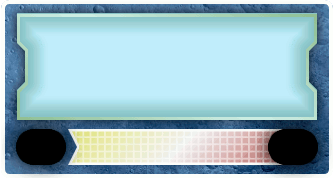
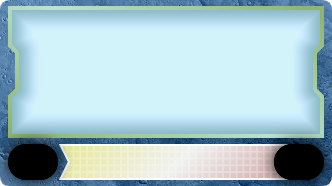
Turmoil Css updates (#6229)
* Modified secondary tags and added new requirements

Secondary Tags were not centered with the edge of the resource, but that is now fixed. Card resources can now had the class "card-resource--has-secondary-tag" to give them a wider right-side margin. Also added new requirements used in Chemical's expansion

diff --git a/src/client/components/card/CardRenderItemComponent.vue b/src/client/components/card/CardRenderItemComponent.vue
@@ -296,40 +296,7 @@ export default Vue.extend({
         classes.push(this.cardResource, 'card-resource-nomads');
         break;
       case CardRenderItemType.HYDROELECTRIC_RESOURCE:
-        classes.push(this.cardResource, 'card-resource-hydroelectric-resource');
-        break;
-      case CardRenderItemType.IDENTIFY:
-        classes.push('card-identification');
-        break;
-      case CardRenderItemType.EXCAVATE:
-        classes.push('card-excavation');
-        break;
-      case CardRenderItemType.CORRUPTION:
-        classes.push('card-resource', 'card-resource-corruption');
-        break;
-      case CardRenderItemType.TOOL:
-        classes.push('card-resource', 'card-resource-tool');
-        break;
-      case CardRenderItemType.WARE:
-        classes.push('card-resource', 'card-resource-ware');
-        break;
-      case CardRenderItemType.SCOOP:
-        classes.push('card-resource', 'card-resource-scoop');
-        break;
-      case CardRenderItemType.JOURNALISM:
-        classes.push('card-resource', 'card-resource-journalism');
-        break;
-      case CardRenderItemType.ACTIVIST:
-        classes.push('card-resource', 'card-resource-activist');
-        break;
-      case CardRenderItemType.NEUTRAL_DELEGATE:
-        classes.push('card-neutral-delegate');
-        break;
-      case CardRenderItemType.UNDERGROUND_RESOURCES:
-        classes.push('card-underground-resources');
-        break;
-      case CardRenderItemType.CORRUPTION_SHIELD:
-        classes.push('card-corruption-shield');
+        classes.push('card-resource', 'card-resource-hydroelectric-resource');
         break;
       }
 

diff --git a/src/styles/turmoil.less b/src/styles/turmoil.less
@@ -89,22 +89,25 @@
 .global-event {
     display: inline-block;
     vertical-align: top;
-    width: 330px;
-    height: 170px;
-    margin: 0 2px;
+    width: 332px;
+    height: 186px;
+    margin: 0 1px;
     background: url(./assets/parties/global_event.png);
-    background-position: -11px -187px;
-    background-size: 350px 182px;
     color: #000000;
     font-size: medium;
     border-radius: 5px;
+    margin-bottom: 10px;
 }
 
 .global-event-card-content {
-    width: 275px !important;
-    height: 100px !important;
+    width: 300px !important;
+    height: 118px !important;
     justify-content: center;
     margin: 0 auto;
+    top: 3px;
+    overflow-x: hidden;
+    justify-content: start;
+    scale: 0.9;
 }
 
 .global-event-title {
@@ -113,16 +116,20 @@
     width: 200px;
     margin-top: 135px;
     margin-left: 70px;
-    text-wrap: nowrap;
-    overflow: hidden;
     font-weight: 600;
     text-align: center;
+    height: 32px;
+    top: 11px;
 }
 
-.global-event-name--narrow {
-  letter-spacing: -0.05em;
-  font-size: 14px;
-  margin-left: 10px;
+.global-event-name {
+    margin: 0;
+    position: absolute;
+    top: 50%;
+    left: 50%;
+    transform: translate(-50%, -50%);
+    width: 200px;
+    line-height: 15px;
 }
 
 .event-title {

diff --git a/src/styles/cards_v2.less b/src/styles/cards_v2.less
@@ -2440,16 +2440,18 @@
 
 .card-party {
   display: flex;
+}
+
+.card-party--revealed {
+  margin: 147px 0 0 12px;
   position: absolute;
   transform: scale(1.35);
 }
 
-.card-party--revealed {
-  margin: 130px 0 0 12px;
-}
-
 .card-party--current {
-  margin: 130px 0 0 276px;
+  margin: 147px 0 0 279px;
+  position: absolute;
+  transform: scale(1.35);
 }
 
 @parties: greens, kelvinists, mars-first, reds, scientists, unity;

diff --git a/src/client/components/turmoil/GlobalEvent.vue b/src/client/components/turmoil/GlobalEvent.vue
@@ -4,7 +4,7 @@
       <div class="card-content-wrapper" v-i18n>
         <CardParty class="card-party--revealed" :party="revealed" />
         <CardParty class="card-party--current" :party="current" />
-        <div class="global-event-title"><span :class="eventNameStyle">{{globalEventName}}</span></div>
+        <div class="global-event-title"><span class="global-event-name">{{globalEventName}}</span></div>
         <div class="card-content global-event-card-content">
           <CardRenderData v-if="renderData !== undefined" :renderData="renderData" />
           <CardDescription :item='description' />
@@ -85,14 +85,6 @@ export default Vue.extend({
       default:
         return common;
       }
-    },
-  },
-  computed: {
-    eventNameStyle(): string {
-      if (this.globalEventName.length > 24) {
-        return 'global-event-name--narrow';
-      }
-      return '';
     },
   },
 });

diff --git a/src/server/turmoil/globalEvents/Revolution.ts b/src/server/turmoil/globalEvents/Revolution.ts
@@ -11,9 +11,9 @@ import {played} from '../../cards/Options';
 import {Size} from '../../../common/cards/render/Size';
 
 const RENDER_DATA = CardRenderer.builder((b) => {
-  b.earth(1, {played, size: Size.SMALL}).plus().influence({size: Size.SMALL}).colon();
-  b.text('1st:', Size.SMALL).tr(2, {size: Size.TINY, digit: true});
-  b.text('2nd:', Size.SMALL).tr(1, {size: Size.TINY, digit: true});
+  b.earth(1, {played, size: Size.SMALL}).plus().influence().colon().br;
+  b.text('1st:', Size.SMALL).tr(2, {size: Size.TINY}).nbsp;
+  b.text('2nd:', Size.SMALL).tr(1, {size: Size.TINY});
 });
 
 export class Revolution extends GlobalEvent implements IGlobalEvent {

diff --git a/src/server/turmoil/globalEvents/Election.ts b/src/server/turmoil/globalEvents/Election.ts
@@ -12,8 +12,8 @@ import {played} from '../../cards/Options';
 import {Size} from '../../../common/cards/render/Size';
 
 const RENDER_DATA = CardRenderer.builder((b) => {
-  b.influence({size: Size.SMALL}).plus().building(1, {played, size: Size.SMALL}).plus().city({size: Size.SMALL}).colon();
-  b.text('1st:', Size.SMALL).tr(2, {size: Size.TINY, digit: true}).text('2nd:', Size.SMALL).tr(1, {size: Size.TINY});
+  b.influence().plus().building(1, {played, size: Size.SMALL}).plus().city({size: Size.SMALL}).colon().br;
+  b.text('1st:', Size.SMALL).tr(2, {size: Size.TINY}).nbsp.text('2nd:', Size.SMALL).tr(1, {size: Size.TINY});
 });
 
 export class Election extends GlobalEvent implements IGlobalEvent {

diff --git a/src/client/components/DebugUI.vue b/src/client/components/DebugUI.vue
@@ -99,7 +99,7 @@
         <h2 v-i18n>Global Events</h2>
         <template v-if="types.globalEvents">
           <div class="cardbox" v-for="globalEventName in getAllGlobalEvents()" :key="globalEventName">
-            <global-event v-if="showGlobalEvent(globalEventName)" :globalEventName="globalEventName" type="prior"></global-event>
+            <global-event v-if="showGlobalEvent(globalEventName)" :globalEventName="globalEventName" type="distant"></global-event>
           </div>
         </template>
       </section>